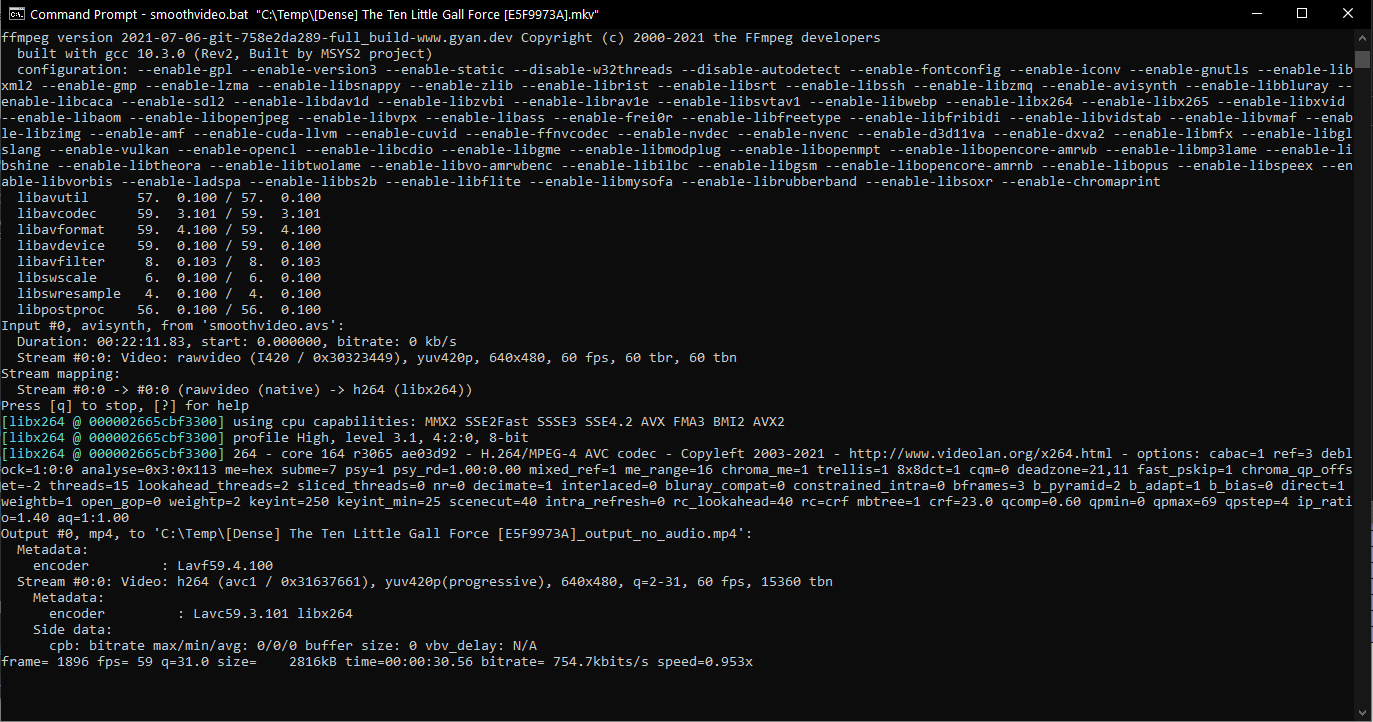
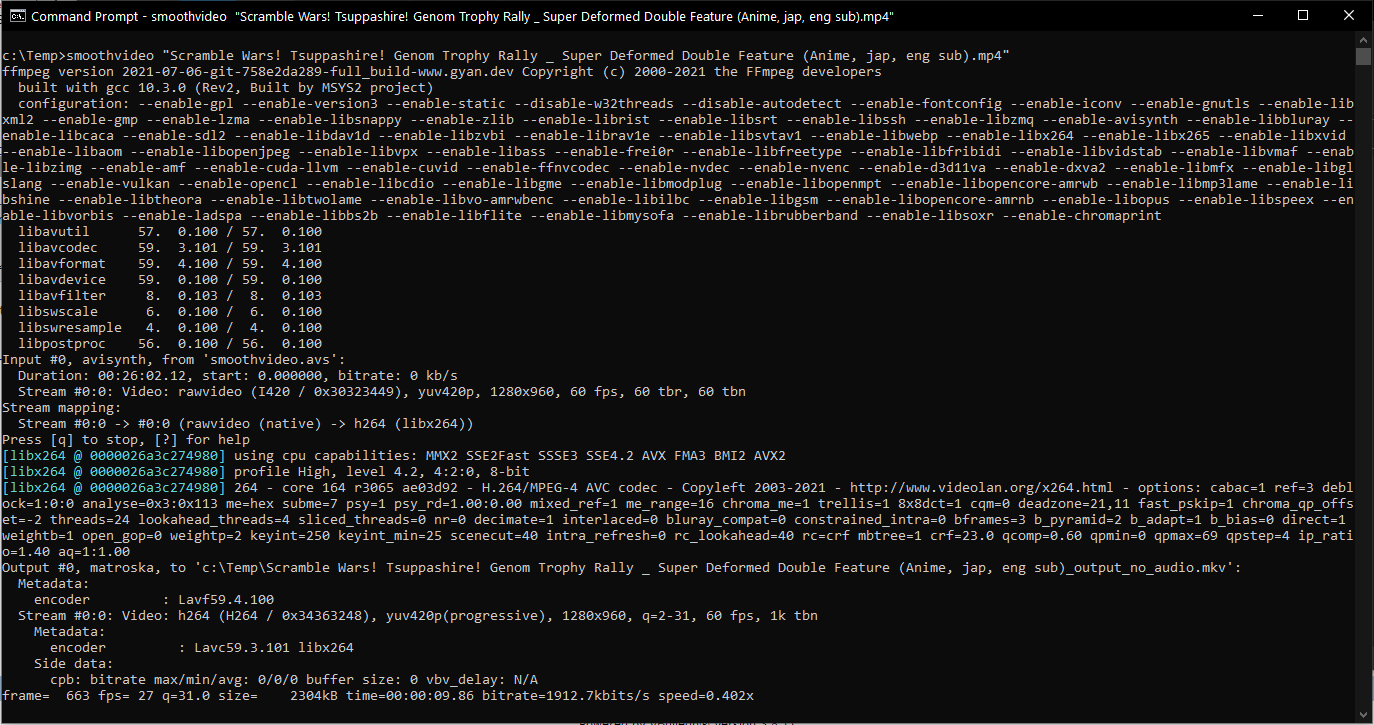
update screenshot and readme

Changed region(s): [[0.0, 0.0, 1.0, 1.0], [0.9789, 0.0, 1.0, 0.0305]]

diff --git a/readme.MD b/readme.MD
@@ -32,14 +32,14 @@ It will output a temporary smoothed video file - first - without audio, ends wit
 
 # Contents
 
-* `smoothvideo.bat` script to smooth a video file, calls FFMPEG with `smoothvideo.avs` and re-encodes the result, and re-adds the original audio
+* `smoothvideo.bat` script to smooth a video file, calls FFMPEG with `smoothvideo.avs` and re-encodes the result, and re-adds the original audio.
  
-* `smoothvideo.avs` AviSynth+ script that read a videofile using the FFMS plug-in and perform the smoothing operation.
+* `smoothvideo.avs` AviSynth+ script that reads a videofile using the FFMS plug-in and performs the smoothing operation.
 
-* `SVPflow_LastGoodVersions.7z` last good SVPflow version
+* `SVPflow_LastGoodVersions.7z` the last good SVPflow version.
 
 * `plugins64.zip` backup of my `C:\Program Files (x86)\AviSynth+\plugins64` folder. 
 
 # Screenshot
 
-![screeenshot](https://raw.githubusercontent.com/bjaan/smoothvideo/master/screenshot.png)
+![screenshot](https://raw.githubusercontent.com/bjaan/smoothvideo/master/screenshot.png)
